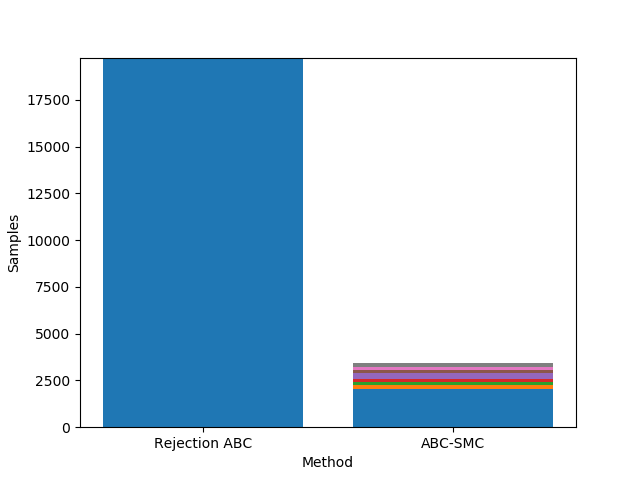
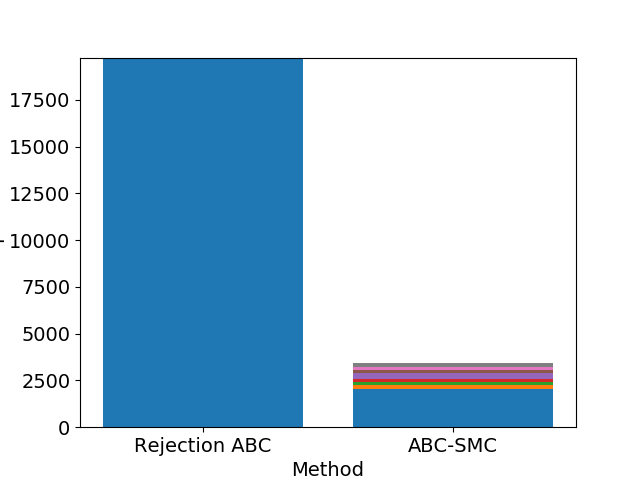
resize font test6

diff --git a/gaussian/test6_viz.py b/gaussian/test6_viz.py
@@ -1,7 +1,10 @@
 import matplotlib.pyplot as plt
 import pyabc
 import numpy as np
+import matplotlib
 
+matplotlib.rcParams.update({'font.size': 14})
+        
 h = pyabc.History("sqlite:///db6.db")
 h.id = 1
 s2 = np.asarray(h.get_all_populations()['samples'][1:])
